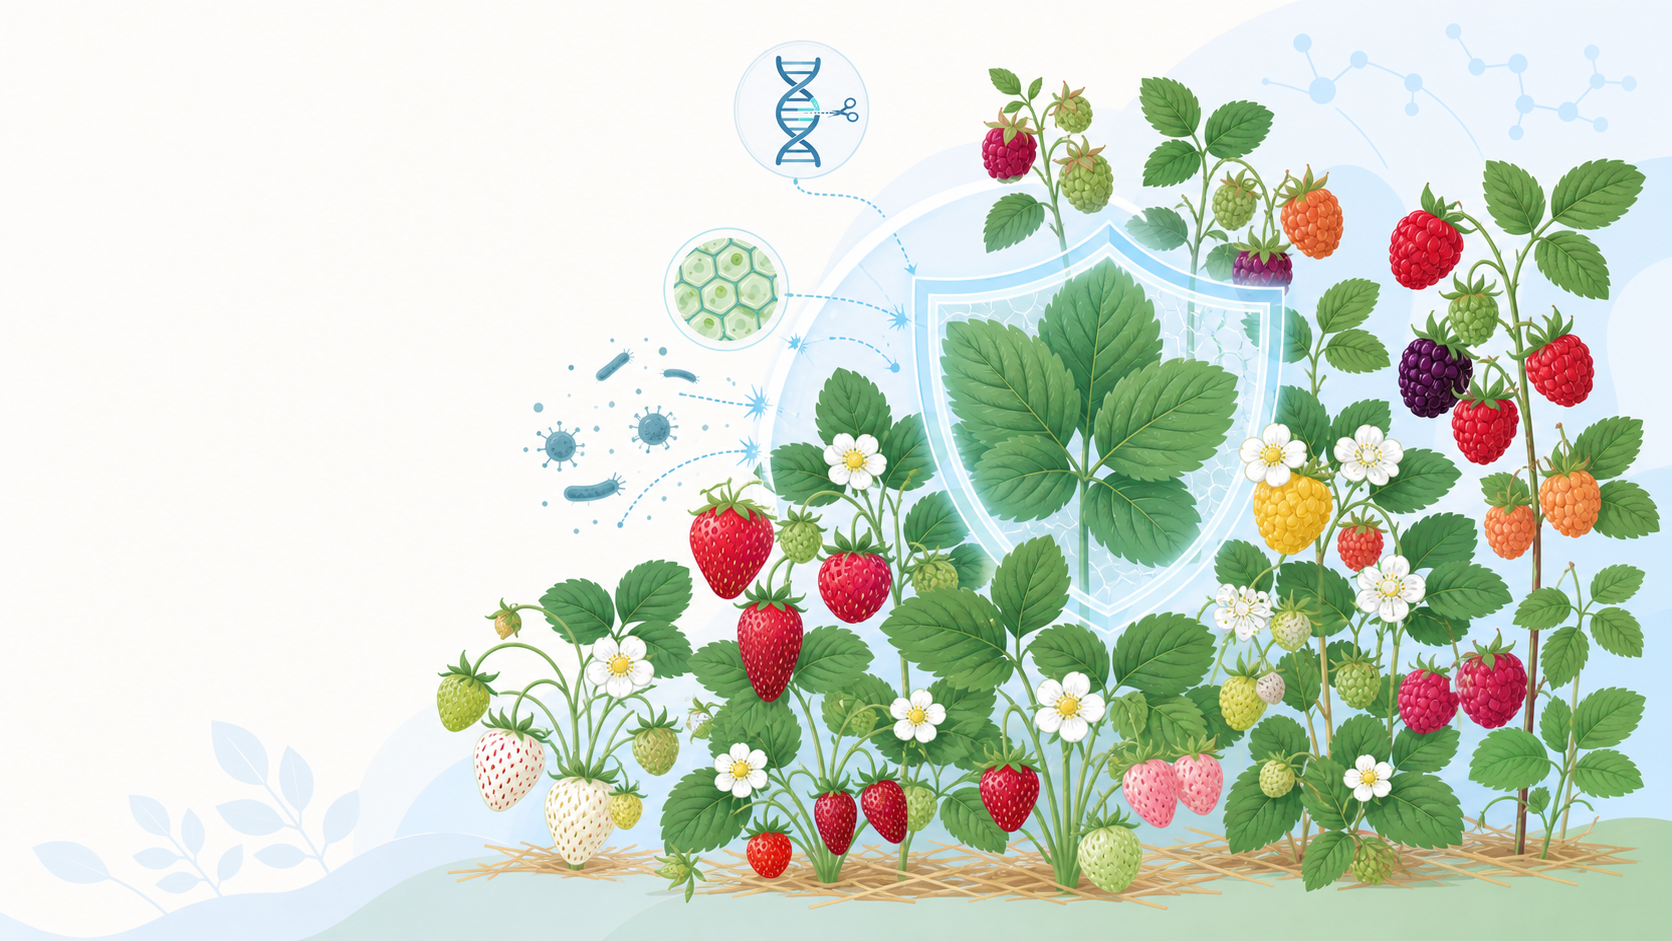
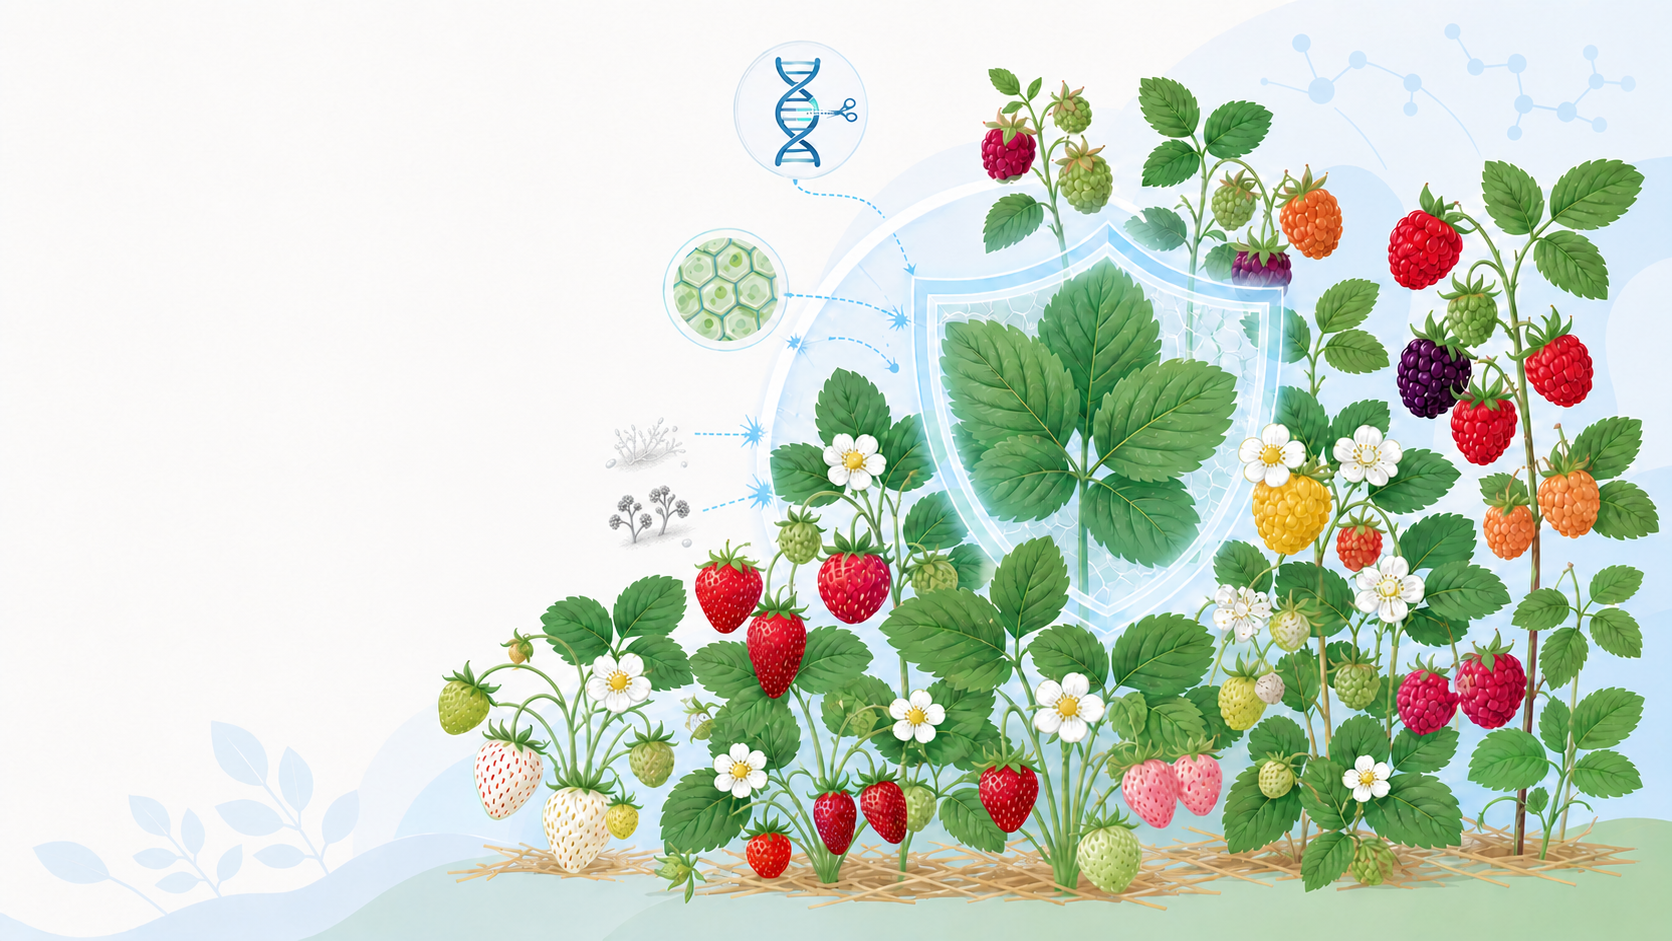
ddd

diff --git a/content/contact/index.md b/content/contact/index.md
@@ -49,23 +49,23 @@ sections:
     design:
       columns: '1'
 
-  - block: markdown
-    content:
-      title:
-      subtitle: ''
-      text:
-    design:
-      columns: '1'
-      background:
-        image: 
-          filename: all_persons.jpg
-          filters:
-            brightness: 1
-          parallax: false
-          position: center
-          size: cover
-          text_color_light: true
-      spacing:
-        padding: ['20px', '0', '20px', '0']
-      css_class: fullscreen
+#  - block: markdown
+#    content:
+#      title:
+#      subtitle: ''
+#      text:
+#    design:
+#      columns: '1'
+#      background:
+#        image: 
+#          filename: all_persons.jpg
+#          filters:
+#            brightness: 1
+#          parallax: false
+#          position: center
+#          size: cover
+#          text_color_light: true
+#      spacing:
+#        padding: ['20px', '0', '20px', '0']
+#      css_class: fullscreen
 ---

diff --git a/content/publication/index.md b/content/publication/index.md
@@ -2,7 +2,7 @@
 
 **All academic publications are accessible via Dr. Zhou's ResearchGate: [https://www.researchgate.net/profile/Junhui-Zhou?ev=prf_overview](https://www.researchgate.net/profile/Junhui-Zhou?ev=prf_overview)**
 
-(#: Co-first author; *: Corresponding author)
+#(#: Co-first author; *: Corresponding author)
 
 1. Xiaopeng Li#, Xianyan Han#, Shoucheng Liu#, Qunying Zhang#, Jiyuan Guan#, Mengzhuo Zheng, Yajun Tang, Pengbo Xu, Jianxin Bian, Kui Li, Zhengdong Wang, Houcheng Zhou, Guohui Yang, Hongli Lian*, Hang He*, Junhui Zhou*. (2026). Two telomere-to -telomere genome assemblies and comparisons revealed the conserved “toolkit” genes for sugar accumulation in Rubus genus. Plant Communications, 7(8), 101849. https://doi.org/10.1016/j.xplc.2026.101849. 
 

diff --git a/content/people/index.md b/content/people/index.md
@@ -58,9 +58,9 @@ sections:
 
         **Xiaojie Lin**: Ph.D candidate at Chinese Academy of Sciences
 
-        **Xia Liang1**: Ph.D candidate at Beijing Forestry University
+        **Xia Liang**: Ph.D candidate at Beijing Forestry University
 
-        **Feijian Sun**: Ph.D candidate at Charles University / Institute of Experimental Botany, Czech Academy of Sciences, Czech Republic
+        **Feijian Sun**: Ph.D candidate at Charles University
 
         **Ruixia Li**: Ph.D candidate at Zhengzhou University
 
